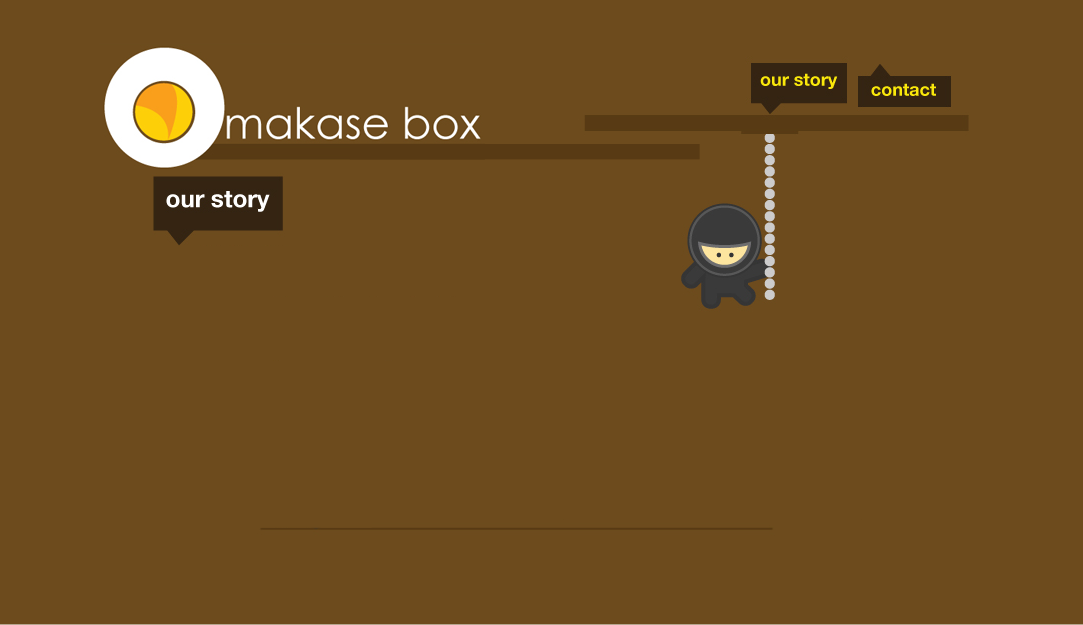
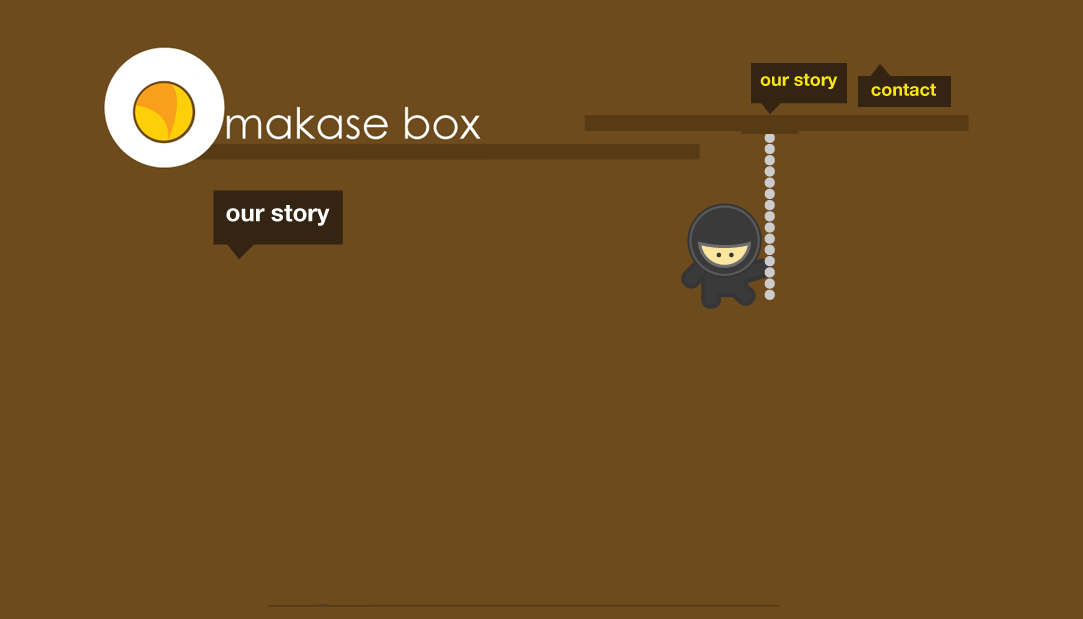
Updated

diff --git a/public/stylesheets/style.css b/public/stylesheets/style.css
@@ -75,6 +75,13 @@ padding:10px;
 clear:both;
 }
 
+#blog-link {
+position:absolute;
+top:56px;
+right:342px;
+}
+
+
 #story-link {
 
 width:97px;
@@ -137,7 +144,7 @@ position:absolute;
 left:420px;
 bottom:40px;
 display:none;
-font-size:13px;
+font-size:12px;
 padding:5px;
 padding-top:12px;
 color:grey;
@@ -195,23 +202,24 @@ top:270px;
 
 }
 
+
 .container-1 {
 
 position:absolute;
-width:541px;
+width:500px;
 height:89px;
-left:140px;
-top:236px;
+left:160px;
+top:266px;
 
 }
 
 .container-2 {
 
 position:absolute;
-width:840px;
+width:800px;
 height:189px;
-left:140px;
-top:316px;
+left:160px;
+top:346px;
 
 }
 
